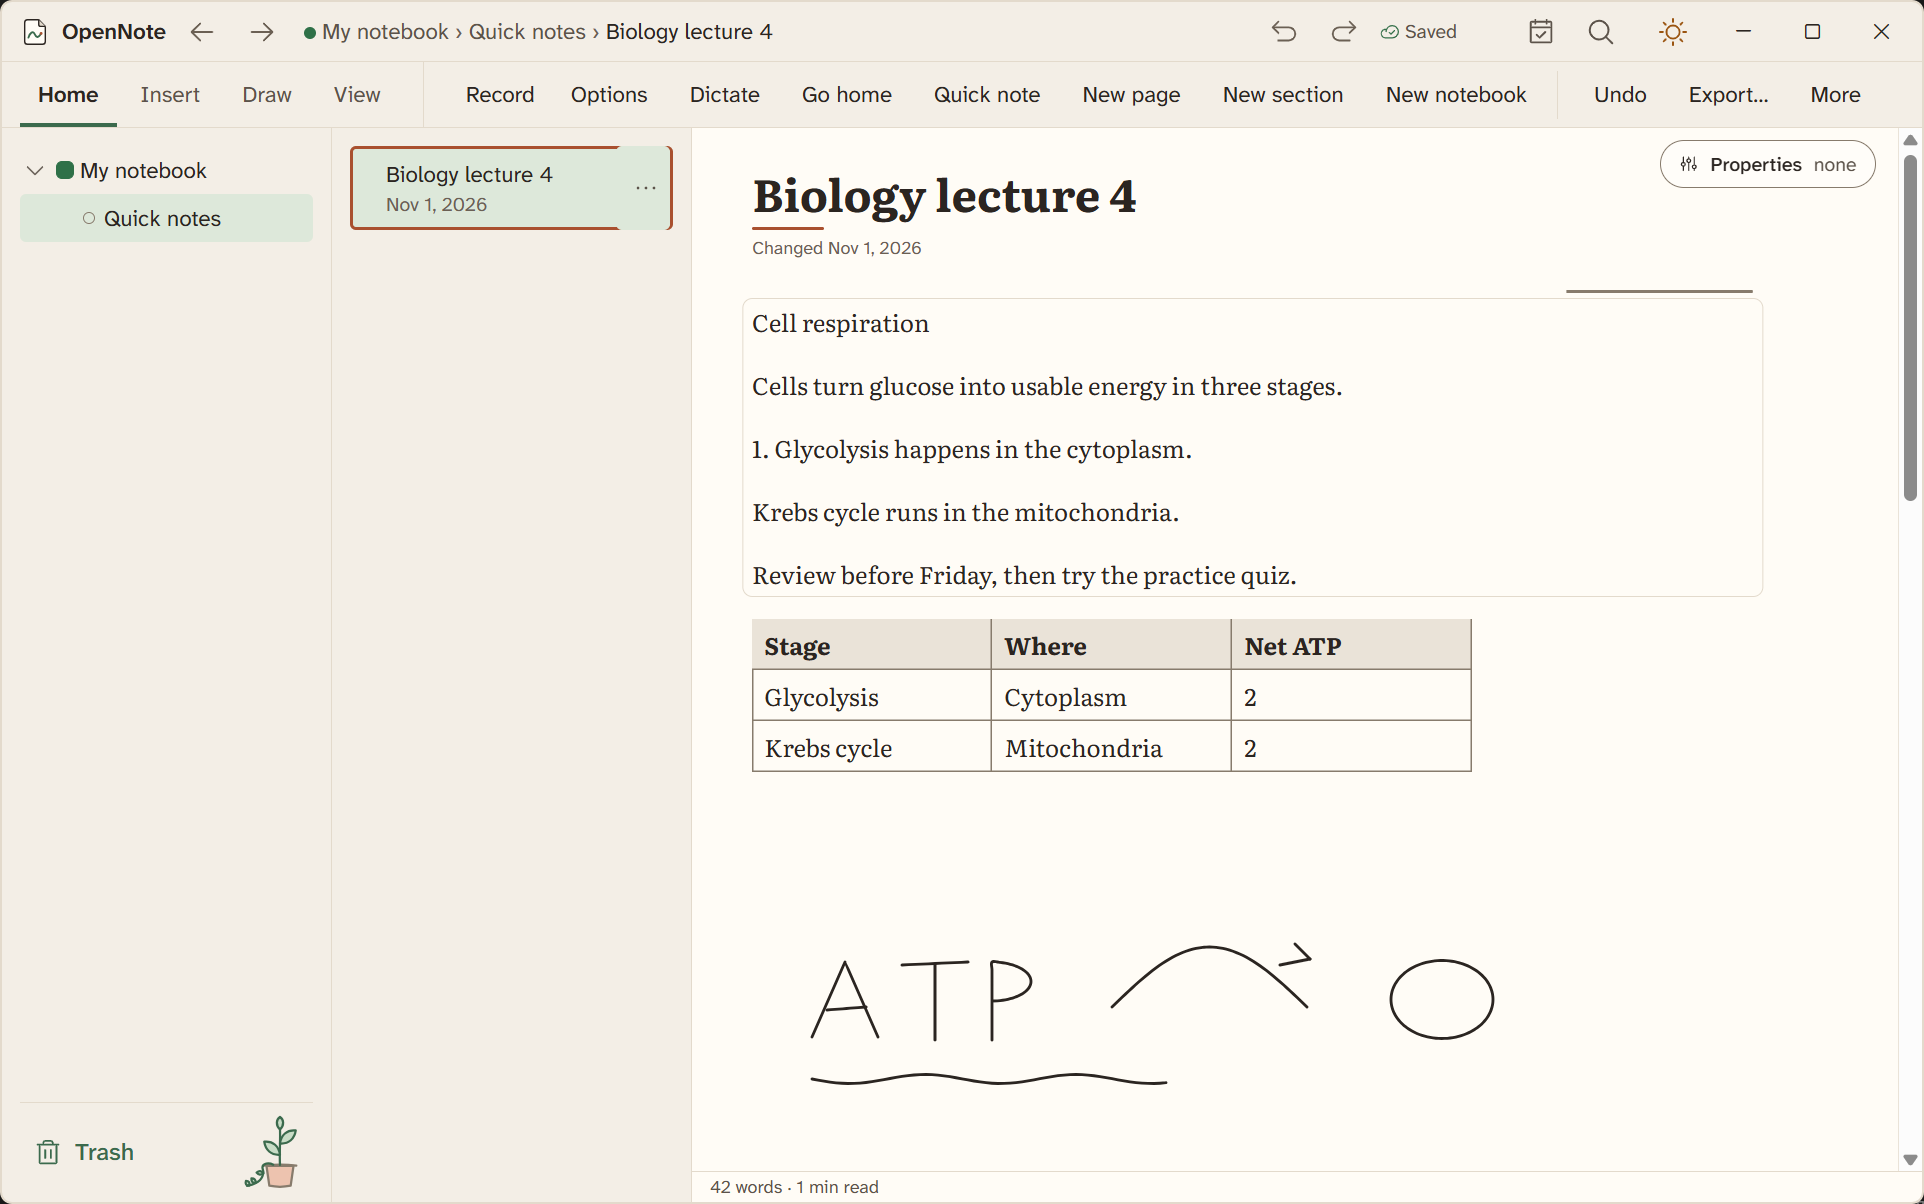
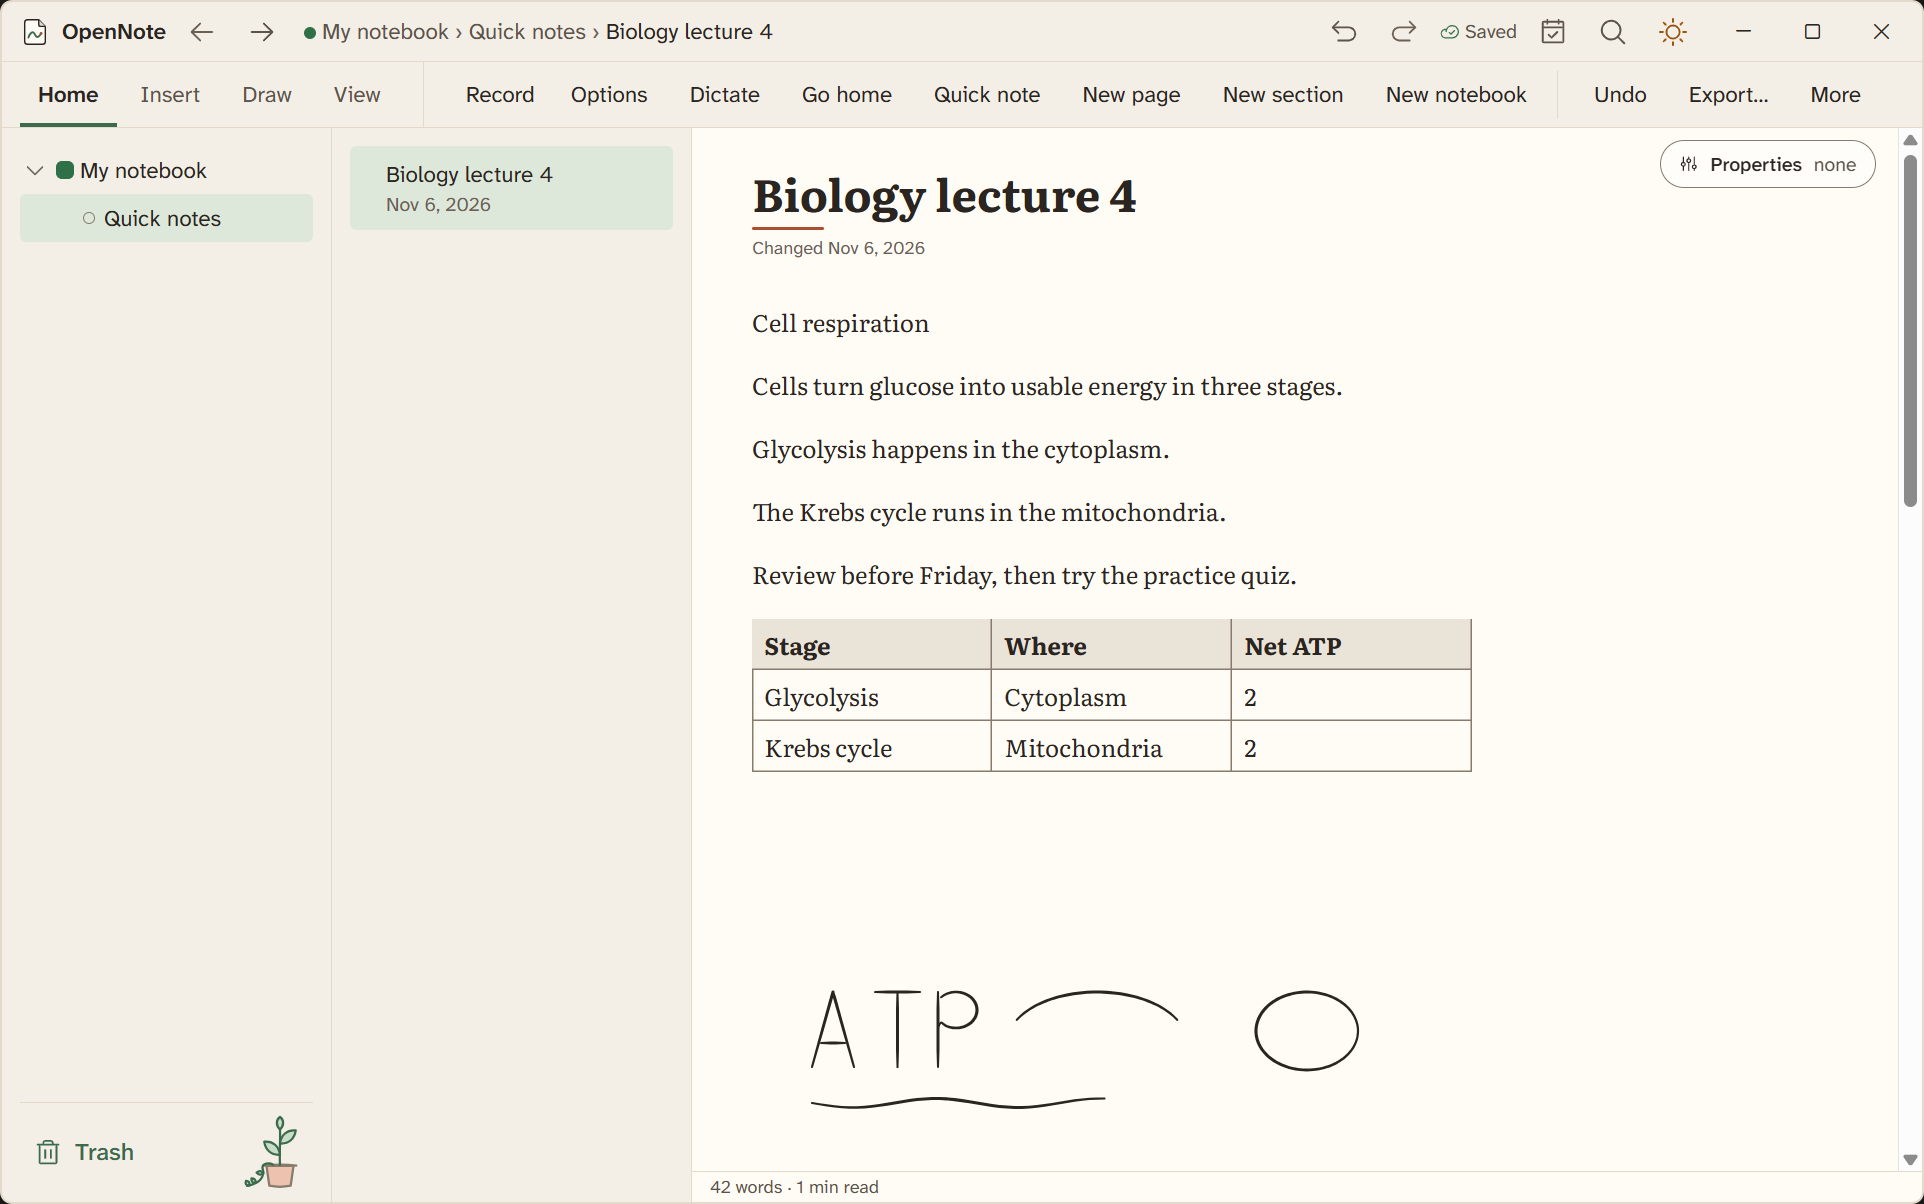
Retake the real-window docs pictures from a fresh beta build
The seven pictures in docs/screens/real came from the old Beta 8 exe and
predate the title bar Saved gap fix (#112), the floating tool window
corner fix (#113) and the walk fix waves. They are retaken from an exe
built from current beta, copied and run with a temporary profile, with
the real top-level window captured (title bar and caption buttons) at
150 percent display scale. The page is typed text, a table, and strokes
made with synthetic pen input.

The two About pictures (settings-about light and dark) came from the web
build and showed version 0.0.0-dev, the Development channel and raw flag
keys. They are replaced from the real window, which shows the true About
text. The README says so.

Not replaced: settings-general (the real window shows the local notes
folder path) and the recording options (the real window lists the
computer's audio devices).

diff --git a/docs/screens/README.md b/docs/screens/README.md
@@ -27,7 +27,7 @@ Real pictures of OpenNote, in the light and the dark theme, taken on the beta 8 
 
 The list of pictures, with their categories and captions, is `docs/tools/screens.json`. `tests/ui/docscap/capture.spec.ts` takes them, with more scenes in `more.ts` and `scenes/` beside it (see the spec for the command). `npm run docs:features` puts them in [the feature list](../FEATURE-LIST.md).
 
-Each picture is a screenshot of the web build that the interface tests use, with the clock set to September 30, 2026. The web build runs the same interface on a fake host. A few details differ from a Windows install. The About page says the channel is Development, and the recording options list one default microphone.
+Each picture is a screenshot of the web build that the interface tests use, with the clock set to September 30, 2026. The web build runs the same interface on a fake host. A few details differ from a Windows install. The recording options list one default microphone, and the General page names a made-up notes folder. The two About pictures are the exception: they are taken from the real Windows window (see [Real window pictures](#real-window-pictures)), so they show the true version, channel, and system text.
 
 Most pictures are 1280 by 800 pixels. A few use another size, such as the Draw tab and some ink pictures (1600 by 900), the compact layout (400 by 800), and the Quick note window (520 by 420).
 
@@ -218,7 +218,7 @@ Every name below has two files, one ending in `-light.png` and one in `-dark.png
 
 ## Real window pictures
 
-These pictures show the real Windows app window (the beta 8 build), including the OpenNote title bar and its caption buttons. They are not browser renders. They live in `docs/screens/real/` and show a sample biology page with typed text, a table, and a stroke written with synthetic pen input.
+These pictures show the real Windows app window (a fresh build of the beta branch, at 150 percent display scale, 1924 by 1204 pixels), including the OpenNote title bar and its caption buttons. They are not browser renders. They live in `docs/screens/real/` and show a sample biology page with typed text, a table, and a stroke written with synthetic pen input.
 
 - `real/real-workspace-light.png`: the full window in the light theme, with the notebook list, page list, typed lines, a table, and handwriting.
 - `real/real-workspace-dark.png`: the same window in the neutral dark gray theme.
@@ -227,3 +227,4 @@ These pictures show the real Windows app window (the beta 8 build), including th
 - `real/real-settings-dark.png`: Settings on the Appearance page in the dark theme.
 - `real/real-tool-window-dark.png`: the Chemistry calculators panel open beside a page, in the dark theme.
 - `real/real-title-bar-light.png`: the top 120 pixels of the light window, showing the single title bar, tabs, and caption buttons (taken at 150 percent display scale).
+- `settings-about-light.png` and `settings-about-dark.png` in this folder: the About page from the same real window, with the true version, channel, WebView2 version, and the list of what works on this computer. They replace the web-build pictures, which showed the development version and raw flag keys.
